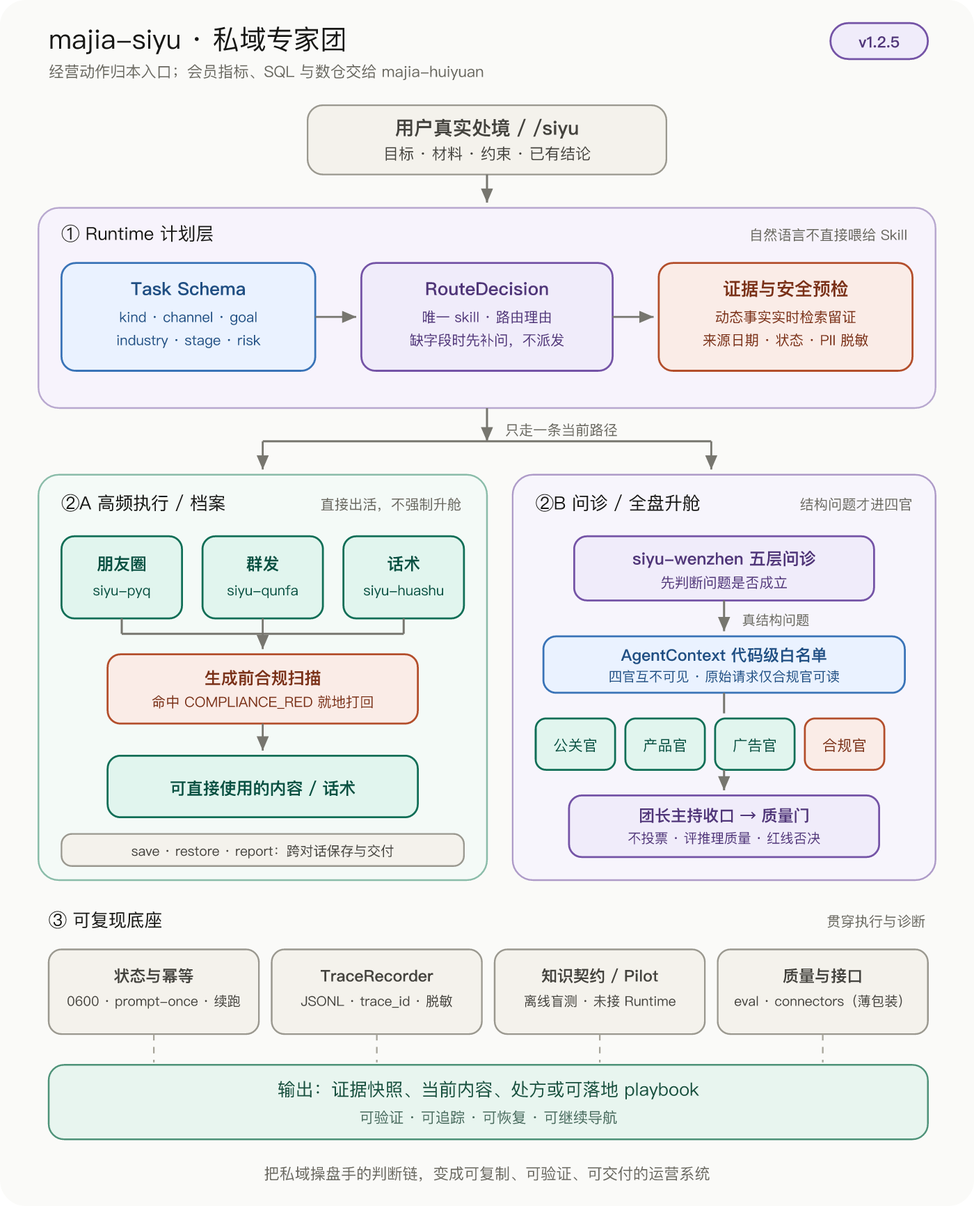
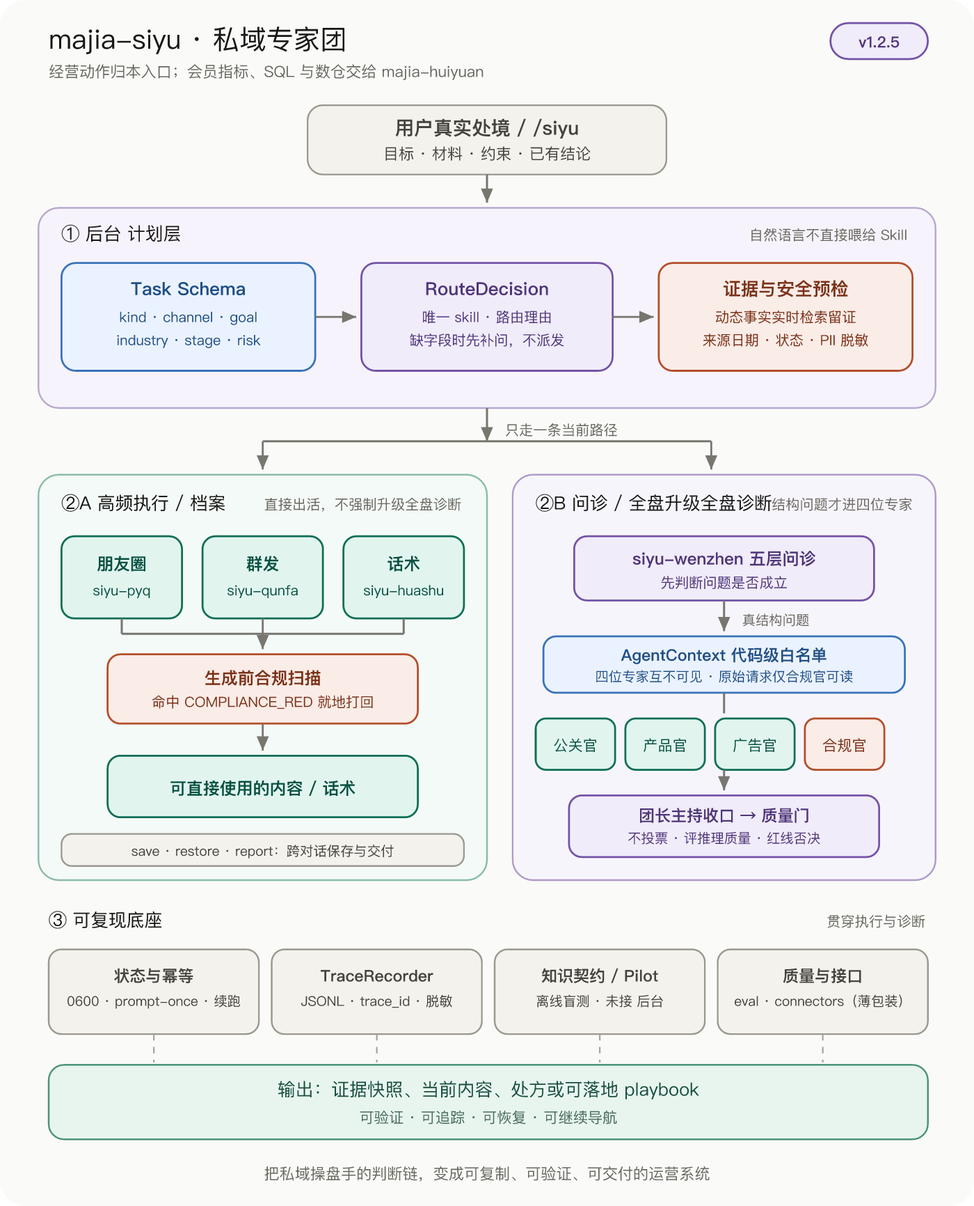
docs: plain-language entry copy for README and skills
Replace 升舱/四官/团长/Runtime/playbook in user-facing entry surfaces
with plain speech. majia-ota plain-language hard hits on the repo: 0.

diff --git a/README.md b/README.md
@@ -9,17 +9,17 @@
 
 > **私域专家团 · 马甲实战版**
 >
-> 中文私域经营工具箱。日常文案直接出活，结构问题再升舱诊断。你只需记住一个入口：`/siyu`。
+> 中文私域经营工具箱。日常文案直接出活，结构问题再升级做全套诊断。你只需记住一个入口：`/siyu`。
 
 <p align="center">
   <img src="https://raw.githubusercontent.com/maojiebc/majia-siyu-team/main/assets/icon.png" alt="私域专家团图标" width="120">
 </p>
 
 <p align="center">
-  <img src="https://raw.githubusercontent.com/maojiebc/majia-siyu-team/main/docs/framework.png" width="520" alt="majia-siyu v1.2.5 框架全局：统一入口先选当前一步；动态事实先检索留证；结构问题才升舱四官；知识 Pilot 只做离线验证">
+  <img src="https://raw.githubusercontent.com/maojiebc/majia-siyu-team/main/docs/framework.png" width="520" alt="majia-siyu v1.2.5 框架全局：统一入口先选当前一步；动态事实先检索留证；结构问题才升级全盘诊断；知识试验只做离线验证">
 </p>
 
-> **一张图看懂**：说真实处境 → `/siyu` 只选当前最该做的一步 → 高频任务直接写朋友圈 / 群发 / 话术（边写边合规）→ 真结构问题才升舱四官评审 → 结论可存档、可续聊、可出报告。经营动作归本仓；会员指标 / SQL / 数仓请用 [majia-huiyuan](https://github.com/maojiebc/majia-huiyuan)。
+> **一张图看懂**：说真实处境 → `/siyu` 只选当前最该做的一步 → 高频任务直接写朋友圈 / 群发 / 话术（边写边合规）→ 真结构问题才升级全盘诊断评审 → 结论可存档、可续聊、可出报告。经营动作归本仓；会员指标 / SQL / 数仓请用 [majia-huiyuan](https://github.com/maojiebc/majia-huiyuan)。
 
 ---
 
@@ -51,7 +51,7 @@
 - **一个入口**：不知道下一步就回 `/siyu`，不用背 17 个 skill 名  
 - **边写边合规**：企微封号红线 / 广告法绝对化 / 诱导分享，生成前就拦  
 - **动态事实硬门**：厂商、产品、报价、政策先实时检索留证，证据不足不推荐  
-- **结构问题才升舱**：四官独立评审、合规官红线一票否决，不把小问题做成大咨询  
+- **结构问题才升级全盘诊断**：四位专家分头看、合规一票否决，不把小问题做成大咨询  
 - **结论可接力**：本地客户档案存 / 续 / 出报告，下次不用重讲一遍  
 
 > 本仓开源的是框架、方法论与可安装 Skill；真实客户操盘 SOP 属作者私有，不在公开库。
@@ -63,9 +63,9 @@
 | 朋友圈写到枯竭，每天从零想素材 | 按配比排好的整周朋友圈（时段、标签、合规扫描） |
 | 群发没人打开，活动通知越发越沉 | 栏目化群发脚本、首句 A/B、承接动作，并判断该救文案还是救机制 |
 | 新客加进来不知道第一句说什么 | 分场景欢迎语、破冰流程、高频答疑话术 |
-| 有具体私域问题，但说不清卡在哪 | 五层问诊：先判断问题是否成立，再给处方或升舱 |
+| 有具体私域问题，但说不清卡在哪 | 五层问诊：先判断问题是否成立，再给处方或升级全盘诊断 |
 | 要选厂商、比竞品、核当前报价 | 带链接、日期与核验状态的证据快照 |
-| 整盘私域不知道怎么搭 | 老板版讲人话向导，或四官评审后的可执行方案 |
+| 整盘私域不知道怎么搭 | 老板版讲人话向导，或四位专家分头评审后的可执行方案 |
 | 上次结论散在聊天里，下次又要重讲 | 本地客户档案 + 跨对话接续 + 合规扫描后的交付报告 |
 | 想把一次真实踩坑贡献给同行 | 结构化案例卡、授权范围选择、人工审核（不上传完整聊天） |
 
@@ -77,7 +77,7 @@
 | 合规 | 发完再审，或不管 | **写的时候就扫**，红线就地打回 |
 | 行业方法 | 通用模板 | 餐饮 3322 配比、造 IP、偷着打折等内置打法 |
 | 外部事实 | 模型记忆瞎填 | 厂商 / 报价 / 政策必须**本次检索留证** |
-| 结构问题 | 继续堆文案 | 先问诊消解；真结构问题才升舱四官 |
+| 结构问题 | 继续堆文案 | 先问诊消解；真结构问题才升级全盘诊断 |
 | 跨对话 | 聊完就散 | 本地存档 / 续聊 / 出报告 |
 
 护城河口子也留好了：真实卖点、优惠、本品 SOP 由你注入私有层，输出从「行业通用」变成「懂本品、能转化」。
@@ -112,7 +112,7 @@
 
 | 能力 | 什么时候用 | 产出 |
 |---|---|---|
-| `siyu-onboard` | 整盘怎么搭、战略级私域评审 | 四官独立评审后的可执行方案 |
+| `siyu-onboard` | 整盘怎么搭、战略级私域评审 | 四位专家独立评审后的可执行方案 |
 | 方法库（随诊断调用） | IP / 促活 / 漏斗 / 危机 / 合规深挖 | `trust-asset` · `content-as-product` · `reactivation` · `ops-as-ad-funnel` · `conversion-caliber` · `crisis-response` · `wechat-compliance-redlines` |
 
 ### 5. 客户档案
@@ -184,7 +184,7 @@ flowchart LR
     B --> C["只选当前一步"]
     C --> D["执行：直接出活"]
     C --> E["问诊：先消解问题"]
-    E --> F["真结构问题才升舱四官"]
+    E --> F["真结构问题才升级全盘诊断"]
     D --> G["存档 / 续聊 / 重新导航"]
     F --> G
 ```
@@ -194,7 +194,7 @@ flowchart LR
 1. **证据层** —— 厂商、产品、报价、案例、政策先实时检索；候选名单也必须来自本次检索，证据不足不推荐  
 2. **计划层** —— 先把自然语言收成结构化任务，信息不够只问最关键的一个问题  
 3. **执行层** —— 朋友圈 / 群发 / 话术高频直出，各自内置合规扫描  
-4. **诊断层** —— 结构问题才进四官；四官互不可见，团长只评推理质量，合规官可一票否决  
+4. **诊断层** —— 结构问题才进全盘诊断；四位专家彼此看不见对方意见，总协调只评推理质量，合规可一票否决  
 5. **底座** —— 本地状态、脱敏追踪、分层知识契约、连接器预留（线上提交 / 检索尚未默认打开）
 
 技术细节：[`docs/runtime-v0.4.md`](docs/runtime-v0.4.md) · [`docs/knowledge-runtime.md`](docs/knowledge-runtime.md) · [`docs/framework.svg`](docs/framework.svg) · [`docs/标杆移植说明.md`](docs/标杆移植说明.md)
@@ -208,7 +208,7 @@ flowchart LR
 - [贡献与授权说明](docs/community-knowledge/contributor-guide.md)
 - [Pilot 协议与结果状态](docs/pilot/README.md)
 
-飞书只负责采集和人工审核，不是 Runtime 真源。本版不启用自动批准、正式知识检索或 Runtime 注入。
+飞书只负责采集和人工审核，不是后台自动系统的真源。本版不启用自动批准、正式知识检索，也不往后台自动系统里灌。
 
 ## 方法论引擎：三句话
 
@@ -231,7 +231,7 @@ PYTHONPATH=src python3 -m siyu_team.cli "群发三轮没人打开，问题出在
 ## 📋 版本记录
 
 - **v1.2.5** — 与 1.2.4 相同的餐饮零售用增方法映射；SkillHub 渠道对齐（商店 1.2.4 槽位异常，内容不变）。  
-- **v1.2.4** — 公开「用增方法映射·餐饮零售」：16 条增长 Know-how、指标字典、九项体检；方法可挂问诊/漏斗/促活，仍不自动注入 Runtime。  
+- **v1.2.4** — 公开「用增方法映射·餐饮零售」：16 条增长 Know-how、指标字典、九项体检；方法可挂问诊/漏斗/促活，仍不自动灌进后台。  
 - **v1.2.3** — 修复 SkillHub 详情页标题：发布临时包对齐 name=slug，主标题显示「私域专家团 · 马甲实战版」。功能不变。  
 - **v1.2.2** — 公开首页全面重梳：角色导航、完整能力地图、安装分渠道、ClawHub 包页与中英文 README 对齐；功能与 API 不变。  
 - **v1.2.1** — 离线知识价值盲测、30 个 Golden Tasks、审核吞吐报表；同行共建为邀请制验证。  

diff --git a/README.en.md b/README.en.md
@@ -16,7 +16,7 @@
 </p>
 
 <p align="center">
-  <img src="https://raw.githubusercontent.com/maojiebc/majia-siyu-team/main/docs/framework.png" width="520" alt="majia-siyu v1.2.5 architecture: one entry picks the current step; external facts require live evidence; structural issues escalate to four officers; knowledge pilot stays offline">
+  <img src="https://raw.githubusercontent.com/maojiebc/majia-siyu-team/main/docs/framework.png" width="520" alt="majia-siyu v1.2.5 architecture: one entry picks the current step; external facts require live evidence; structural issues escalate to a full four-expert review; knowledge pilot stays offline">
 </p>
 
 > **In one glance**: describe a real situation → `/siyu` picks only the current step → high-frequency work (Moments / group broadcast / welcome scripts) ships with write-time compliance → true structural issues escalate to four isolated officers → results can be saved, resumed, and reported. Operating actions live here; membership metrics / SQL / warehouses belong in [majia-huiyuan](https://github.com/maojiebc/majia-huiyuan).
@@ -50,7 +50,7 @@ Generic copy tools cover most of bucket 1. This toolbox finishes the last 20% an
 - **One entry** — remember `/siyu`, not 17 skill names
 - **Write-time compliance** — blocks WeCom-ban triggers, absolute ad-law claims, share-bait before output ships
 - **External-fact gate** — vendors, products, pricing, and policy require live research with dated sources
-- **Escalate only when structural** — four officers review in isolation; compliance has veto power
+- **Escalate only when structural** — four experts review in isolation; compliance has veto power
 - **Continuity** — local client archives for save / resume / report
 
 The public repo ships framework, methodology, and installable Skills. Real client operating SOPs stay private.
@@ -139,7 +139,7 @@ flowchart LR
 4. **Diagnosis** — four isolated officers + host quality gate + compliance veto  
 5. **Foundation** — local state, redacted traces, layered knowledge contract, connector stubs (online submit/retrieve not enabled by default)
 
-Runtime notes: [`docs/runtime-v0.4.md`](docs/runtime-v0.4.md) · knowledge contract: [`docs/knowledge-runtime.md`](docs/knowledge-runtime.md).
+runtime backend notes: [`docs/runtime-v0.4.md`](docs/runtime-v0.4.md) · knowledge contract: [`docs/knowledge-runtime.md`](docs/knowledge-runtime.md).
 
 ## Community knowledge pilot (invitation only)
 
@@ -160,7 +160,7 @@ Feishu is intake + human review only — not a runtime source. No auto-approval,
 ## Version history
 
 - **v1.2.5** — Same growth know-how map as 1.2.4; SkillHub channel synced (store 1.2.4 slot anomaly, content unchanged).  
-- **v1.2.4** — Public catering/retail growth know-how map (16 statements, metric dictionary, 9-point checkup); skills can cite it; still no Runtime auto-inject.  
+- **v1.2.4** — Public catering/retail growth know-how map (16 statements, metric dictionary, 9-point checkup); skills can cite it; still no runtime backend auto-inject.  
 - **v1.2.3** — Fix SkillHub detail title: temp package aligns name=slug so the page title shows the Chinese brand name. No API change.  
 - **v1.2.2** — Public page refresh: role navigation, full capability map, channel-split install, CN/EN + ClawHub package page alignment. No API/behavior change.  
 - **v1.2.1** — Offline knowledge pilot, 30 Golden Tasks, editorial throughput report.  

diff --git a/docs/新手入门.md b/docs/新手入门.md
@@ -16,10 +16,10 @@
 
 1. 说出现状、目标或材料，信息不完整也可以。
 2. 系统先把请求整理成任务类型、渠道、目标和风险，再由 `/siyu` 选择当前最值得处理的一步。
-3. 执行能力直接产出文案、话术、诊断或 playbook。
+3. 执行能力直接产出文案、话术、诊断或现成做法清单。
 4. 有结论就保存客户档案；要继续就重新导航。
 
-日常动作优先走执行能力。只有具体问题活过问诊漏斗、且涉及全盘结构，才升舱四官评审。
+日常动作优先走执行能力。只有具体问题活过问诊漏斗、且涉及全盘结构，才升级做全套诊断（四位专家分头看）。
 
 ## 三、完整能力目录
 
@@ -36,15 +36,15 @@
 | `/siyu-restore` | 接着上次、查看之前否决过什么 | 「上次聊到哪了」 | 档案中的下一步或 `/siyu` |
 | `/siyu-report` | 多次咨询后要交付给老板或客户 | 「把这个客户的记录整理成报告」 | 新一轮问诊或执行 |
 | `/siyu-update` | 更新本工具箱 | 「更新私域专家团」 | 更新后新建对话 |
-| `trust-asset-playbook` | 专家团内部评审信任与口碑资产 | 「检查这套活动如何积累信任」 | 由团长收口 |
-| `crisis-response-sop` | 专家团内部评审负面与危机响应 | 「给这次投诉设计响应 SOP」 | 由团长收口 |
-| `content-as-product` | 专家团内部评审内容产品性 | 「检查这批内容是否值得看和复用」 | 由团长收口 |
-| `reactivation-playbook` | 专家团内部评审沉默用户唤醒 | 「设计沉默 30 天用户的唤醒方案」 | 群发或话术执行 |
-| `ops-as-ad-funnel` | 专家团内部评审触达与转化漏斗 | 「拆这次活动的完整漏斗」 | 由团长收口 |
+| `trust-asset-做法清单` | 专家团内部评审信任与口碑资产 | 「检查这套活动如何积累信任」 | 由总协调收口 |
+| `crisis-response-sop` | 专家团内部评审负面与危机响应 | 「给这次投诉设计响应 SOP」 | 由总协调收口 |
+| `content-as-product` | 专家团内部评审内容产品性 | 「检查这批内容是否值得看和复用」 | 由总协调收口 |
+| `reactivation-做法清单` | 专家团内部评审沉默用户唤醒 | 「设计沉默 30 天用户的唤醒方案」 | 群发或话术执行 |
+| `ops-as-ad-funnel` | 专家团内部评审触达与转化漏斗 | 「拆这次活动的完整漏斗」 | 由总协调收口 |
 | `conversion-caliber` | 专家团内部校准指标口径 | 「把转化率的分子分母和时间窗写清」 | 质量门与数据埋点 |
 | `wechat-compliance-redlines` | 专家团内部审查封号、广告与授权风险 | 「检查这套裂变动作是否合规」 | 红线先整改，再收口 |
 
-普通用户不必记住后七个内部评审 skill。需要全盘诊断时调用 `siyu-onboard`，团长会组织它们。
+普通用户不必记住后七个内部评审 skill。需要全盘诊断时调用 `siyu-onboard`，总协调会把它们组织起来。
 
 ## 四、三个常见用法
 

diff --git a/plugins/siyu-core/skills/majia-siyu/README.md b/plugins/siyu-core/skills/majia-siyu/README.md
@@ -6,9 +6,9 @@
 
 > **私域专家团 · 马甲实战版**
 >
-> 中文私域经营工具箱。日常文案直接出活，结构问题再升舱诊断。入口只有一个：`/siyu`。
+> 中文私域经营工具箱。日常文案直接出活，结构问题再升级做全套诊断。入口只有一个：`/siyu`。
 
-私域经营动作全景图（统一入口 → 当前一步 → 执行 / 问诊 / 四官升舱；动态事实先检索留证；知识 Pilot 仅离线验证）：
+私域经营动作全景图（统一入口 → 当前一步 → 执行 / 问诊 / 升级全盘诊断；动态事实先检索留证；知识 Pilot 仅离线验证）：
 
 ![majia-siyu v1.2.5 框架全局](https://raw.githubusercontent.com/maojiebc/majia-siyu-team/main/docs/framework.png)
 
@@ -28,7 +28,7 @@
 
 - **高频执行（边写边合规）**：`siyu-pyq` 朋友圈 · `siyu-qunfa` 群发 · `siyu-huashu` 破冰话术  
 - **问诊与调研**：`siyu-wenzhen` 五层问诊 · `siyu-market-research` 厂商/竞品/报价实时留证  
-- **全盘诊断**：`siyu-onboard` 四官评审团 + 方法库（信任资产 / 促活 / 漏斗 / 危机 / 合规）  
+- **全盘诊断**：`siyu-onboard` 四位专家分头看 + 方法库（信任资产 / 促活 / 从进店到再买 / 危机 / 合规）  
 - **客户档案**：`siyu-save` / `siyu-restore` / `siyu-report`  
 - **升级**：`siyu-update`（只同步官方项目，不碰本地客户档案）  
 
@@ -63,7 +63,7 @@ skillhub install siyu
 ## 📋 版本记录
 
 - **v1.2.5** — 与 1.2.4 相同的用增方法映射；SkillHub 渠道对齐（1.2.4 槽位异常）。  
-- **v1.2.4** — 公开「用增方法映射·餐饮零售」16 条增长 Know-how；问诊/漏斗/促活可挂口径；不自动注入 Runtime。  
+- **v1.2.4** — 公开「用增方法映射·餐饮零售」16 条增长 Know-how；问诊/漏斗/促活可挂口径；不自动灌进后台。  
 - **v1.2.3** — 修复 SkillHub 详情页标题：发布临时包对齐 name=slug，主标题显示「私域专家团 · 马甲实战版」。功能不变。  
 - **v1.2.2** — 公开首页与包页全面重梳；H1 / displayName 固定为「私域专家团 · 马甲实战版」，避免被商店短名盖住标题。  
 - **v1.2.1** — 离线 Knowledge Pilot 盲测、30 Golden Tasks、审核吞吐报表。  

diff --git a/skillhub/majia-siyu/README.md b/skillhub/majia-siyu/README.md
@@ -6,9 +6,9 @@
 
 > **私域专家团 · 马甲实战版**
 >
-> 中文私域经营工具箱。日常文案直接出活，结构问题再升舱诊断。入口只有一个：`/siyu`。
+> 中文私域经营工具箱。日常文案直接出活，结构问题再升级做全套诊断。入口只有一个：`/siyu`。
 
-私域经营动作全景图（统一入口 → 当前一步 → 执行 / 问诊 / 四官升舱；动态事实先检索留证；知识 Pilot 仅离线验证）：
+私域经营动作全景图（统一入口 → 当前一步 → 执行 / 问诊 / 升级全盘诊断；动态事实先检索留证；知识 Pilot 仅离线验证）：
 
 ![majia-siyu v1.2.5 框架全局](https://raw.githubusercontent.com/maojiebc/majia-siyu-team/main/docs/framework.png)
 
@@ -28,7 +28,7 @@
 
 - **高频执行（边写边合规）**：`siyu-pyq` 朋友圈 · `siyu-qunfa` 群发 · `siyu-huashu` 破冰话术  
 - **问诊与调研**：`siyu-wenzhen` 五层问诊 · `siyu-market-research` 厂商/竞品/报价实时留证  
-- **全盘诊断**：`siyu-onboard` 四官评审团 + 方法库（信任资产 / 促活 / 漏斗 / 危机 / 合规）  
+- **全盘诊断**：`siyu-onboard` 四位专家分头看 + 方法库（信任资产 / 促活 / 从进店到再买 / 危机 / 合规）  
 - **客户档案**：`siyu-save` / `siyu-restore` / `siyu-report`  
 - **升级**：`siyu-update`（只同步官方项目，不碰本地客户档案）  
 
@@ -63,7 +63,7 @@ skillhub install siyu
 ## 📋 版本记录
 
 - **v1.2.5** — 与 1.2.4 相同的用增方法映射；SkillHub 渠道对齐（1.2.4 槽位异常）。  
-- **v1.2.4** — 公开「用增方法映射·餐饮零售」16 条增长 Know-how；问诊/漏斗/促活可挂口径；不自动注入 Runtime。  
+- **v1.2.4** — 公开「用增方法映射·餐饮零售」16 条增长 Know-how；问诊/漏斗/促活可挂口径；不自动灌进后台。  
 - **v1.2.3** — 修复 SkillHub 详情页标题：发布临时包对齐 name=slug，主标题显示「私域专家团 · 马甲实战版」。功能不变。  
 - **v1.2.2** — 公开首页与包页全面重梳；H1 / displayName 固定为「私域专家团 · 马甲实战版」，避免被商店短名盖住标题。  
 - **v1.2.1** — 离线 Knowledge Pilot 盲测、30 Golden Tasks、审核吞吐报表。  

diff --git a/skillhub/majia-siyu/SKILL.md b/skillhub/majia-siyu/SKILL.md
@@ -55,7 +55,7 @@ metadata:
 
 ## 模式 A：任务前路由
 
-源码可用时必须先调用 `SiyuRuntime.plan()`，只按 `decision.skill` 路由；需要补信息时只问 `required_fields` 第一项。下表是降级规则。
+源码可用时必须先调用 `Siyu后台自动系统.plan()`，只按 `decision.skill` 路由；需要补信息时只问 `required_fields` 第一项。下表是降级规则。
 
 ### 路由表
 
@@ -109,15 +109,15 @@ metadata:
 
 ## 语言（讲人话铁律）
 
-面向用户一律中文；不用 slug、session 等英文术语，**也不用中文黑话**——playbook / 团长 / 四官 / 升舱 等黑话一律翻成大白话（对照表见 [`references/整盘怎么搭-老板版.md`](references/整盘怎么搭-老板版.md)）。面对店老板尤其守这条：他要查字典的词，就是失败。
+面向用户一律中文；不用 slug、session 等英文术语，**也不用中文黑话**——做法清单 / 总协调 / 四位专家 / 升级全盘诊断 等黑话一律翻成大白话（对照表见 [`references/整盘怎么搭-老板版.md`](references/整盘怎么搭-老板版.md)）。面对店老板尤其守这条：他要查字典的词，就是失败。
 
 完整能力与安装说明见公开仓库：**https://github.com/maojiebc/majia-siyu-team**。
 
 ## 📋 版本记录
 
-- **v1.2.5** — SkillHub 对齐 1.2.4 用增映射；不接 Runtime。
-- **v1.2.3** — SkillHub 详情页展示名发布对齐。
-- **v1.2.1** — 离线 Pilot 盲测与审核报表；不接 Runtime。
+- **v1.2.5** — SkillHub 对齐用增映射；不接后台。
+- **v1.2.3** — SkillHub 展示名发布对齐。
+- **v1.2.1** — 离线 Pilot 与审核报表；不接后台。
 - **v1.2.0** — 知识契约与贡献安全层；仅人工审核。
 - **v1.1.0** — 新增动态外部事实三道硬门与 `siyu-market-research`：厂商、产品、报价和市场事实必须实时检索、逐项留证后才能进入推荐与专家分析。
 

diff --git a/plugins/siyu-core/skills/majia-siyu/SKILL.md b/plugins/siyu-core/skills/majia-siyu/SKILL.md
@@ -43,7 +43,7 @@ metadata:
 
 ## 模式 A：任务前路由
 
-源码可用时必须先调用 `SiyuRuntime.plan()`，只按 `decision.skill` 路由；需要补信息时只问 `required_fields` 第一项。下表是降级规则。
+源码可用时必须先调用 `Siyu后台自动系统.plan()`，只按 `decision.skill` 路由；需要补信息时只问 `required_fields` 第一项。下表是降级规则。
 
 ### 路由表
 
@@ -97,15 +97,15 @@ metadata:
 
 ## 语言（讲人话铁律）
 
-面向用户一律中文；不用 slug、session 等英文术语，**也不用中文黑话**——playbook / 团长 / 四官 / 升舱 等黑话一律翻成大白话（对照表见 [`references/整盘怎么搭-老板版.md`](references/整盘怎么搭-老板版.md)）。面对店老板尤其守这条：他要查字典的词，就是失败。
+面向用户一律中文；不用 slug、session 等英文术语，**也不用中文黑话**——做法清单 / 总协调 / 四位专家 / 升级全盘诊断 等黑话一律翻成大白话（对照表见 [`references/整盘怎么搭-老板版.md`](references/整盘怎么搭-老板版.md)）。面对店老板尤其守这条：他要查字典的词，就是失败。
 
 完整能力与安装说明见公开仓库：**https://github.com/maojiebc/majia-siyu-team**。
 
 ## 📋 版本记录
 
-- **v1.2.5** — SkillHub 对齐 1.2.4 用增映射；不接 Runtime。
-- **v1.2.3** — SkillHub 详情页展示名发布对齐。
-- **v1.2.1** — 离线 Pilot 盲测与审核报表；不接 Runtime。
+- **v1.2.5** — SkillHub 对齐用增映射；不接后台。
+- **v1.2.3** — SkillHub 展示名发布对齐。
+- **v1.2.1** — 离线 Pilot 与审核报表；不接后台。
 - **v1.2.0** — 知识契约与贡献安全层；仅人工审核。
 - **v1.1.0** — 新增动态外部事实三道硬门与 `siyu-market-research`：厂商、产品、报价和市场事实必须实时检索、逐项留证后才能进入推荐与专家分析。
 

diff --git a/plugins/siyu-execution/README.md b/plugins/siyu-execution/README.md
@@ -1,6 +1,6 @@
 # 私域执行层 · siyu-execution
 
-一线私域运营**直接干活**的单技能，跟诊断层（四官专家团）平级。用户可以直接召唤某一个 skill，不必走团长编排。
+一线私域运营**直接干活**的单技能，跟诊断层（四位专家团）平级。用户可以直接点某一个本事，不必走总协调那套安排。
 
 > 为什么单独一层：一线运营每天要写朋友圈、发群、给话术，他要的是「一个直接出活的单专家」，不是被拉去做战略评审。通用「生成」市面已到 80 分，这一层补的是最后 20 分——**行业灵魂 + 真实 SOP + 边写边合规 + 落到门店真数据**。
 
@@ -18,4 +18,4 @@
 - **三句话质检** —— 每个 skill 内置输出自检，用户无感却自带专家团 DNA
 
 ## 与诊断层（专家团）的关系
-执行层 = 入口（高频、干活）；专家团 = 升舱（低频、拍板）。只有"帮我看整盘私域怎么搭 / 这个活动战略对不对"才路由到团长走四官评审。海报需求不在这里自造，指向 `guizang-social-card-skill` / `baoyu-cover-image`。
+执行层 = 入口（高频、干活）；专家团 = 升级全盘诊断（低频、拍板）。只有「帮我看整盘私域怎么搭 / 这个活动战略对不对」才交给总协调，让四位专家分头看。海报需求不在这里自造，指向 `guizang-social-card-skill` / `baoyu-cover-image`。

diff --git a/plugins/siyu-core/skills/siyu-wenzhen/SKILL.md b/plugins/siyu-core/skills/siyu-wenzhen/SKILL.md
@@ -1,7 +1,7 @@
 ---
 name: siyu-wenzhen
 description: |
-  私域业务轻问诊：先用五层消解漏斗判断具体问题是否成立，再给答案或升舱全盘诊断。
+  私域业务轻问诊：先用五层消解漏斗判断具体问题是否成立，再给答案或升级全盘诊断全盘诊断。
   触发方式：/siyu-wenzhen、/问诊、「转化差怎么办」「群不活跃」「没人加微」「我有个私域问题」。
 metadata:
   version: "1.2.5"
@@ -65,13 +65,13 @@ metadata:
 - **资源约束型**：先问资金、时间、人力、数据中最关键的一项，再按约束给方案。
 - **专业边界型**：法务、医疗、财税等问题直接建议找对应专业人士。
 
-### 升舱出口
+### 升级全盘诊断的出口
 
 真问题成立且涉及全盘结构时，只说：
 
-> 这个问题成立，而且不是单点能解的。建议走一次全盘体检：`siyu-onboard`，四位官各自独立评审后由团长拍板。
+> 这个问题成立，而且不是单点能解的。建议走一次全盘体检：`siyu-onboard`，四位专家各自独立看完后由总协调拍板。
 
-不要为了显得专业而把单点问题都升舱。
+不要为了显得专业，把单点问题都升级成全盘诊断。
 
 ## Phase 5：回顾
 

diff --git a/skillhub/majia-siyu/modules/siyu-wenzhen/SKILL.md b/skillhub/majia-siyu/modules/siyu-wenzhen/SKILL.md
@@ -1,7 +1,7 @@
 ---
 name: siyu-wenzhen
 description: |
-  私域业务轻问诊：先用五层消解漏斗判断具体问题是否成立，再给答案或升舱全盘诊断。
+  私域业务轻问诊：先用五层消解漏斗判断具体问题是否成立，再给答案或升级全盘诊断全盘诊断。
   触发方式：/siyu-wenzhen、/问诊、「转化差怎么办」「群不活跃」「没人加微」「我有个私域问题」。
 metadata:
   version: "1.2.5"
@@ -65,13 +65,13 @@ metadata:
 - **资源约束型**：先问资金、时间、人力、数据中最关键的一项，再按约束给方案。
 - **专业边界型**：法务、医疗、财税等问题直接建议找对应专业人士。
 
-### 升舱出口
+### 升级全盘诊断的出口
 
 真问题成立且涉及全盘结构时，只说：
 
-> 这个问题成立，而且不是单点能解的。建议走一次全盘体检：`siyu-onboard`，四位官各自独立评审后由团长拍板。
+> 这个问题成立，而且不是单点能解的。建议走一次全盘体检：`siyu-onboard`，四位专家各自独立看完后由总协调拍板。
 
-不要为了显得专业而把单点问题都升舱。
+不要为了显得专业，把单点问题都升级成全盘诊断。
 
 ## Phase 5：回顾
 

diff --git a/plugins/siyu-core/skills/siyu-report/SKILL.md b/plugins/siyu-core/skills/siyu-report/SKILL.md
@@ -9,7 +9,7 @@ metadata:
 
 # siyu-report：客户咨询报告
 
-只从 `~/.siyu/clients/{客户}/` 的存档合并报告，不从当前对话凭空发挥。报告属于跨对话客户档案；`.siyu-team/` 仍只是一轮团长编排的运行时状态。
+只从 `~/.siyu/clients/{客户}/` 的存档合并报告，不从当前对话凭空发挥。报告属于跨对话客户档案；`.siyu-team/` 仍只是一轮总协调安排的运行中状态。
 
 ## 用户措辞
 

diff --git a/skillhub/majia-siyu/modules/siyu-report/SKILL.md b/skillhub/majia-siyu/modules/siyu-report/SKILL.md
@@ -9,7 +9,7 @@ metadata:
 
 # siyu-report：客户咨询报告
 
-只从 `~/.siyu/clients/{客户}/` 的存档合并报告，不从当前对话凭空发挥。报告属于跨对话客户档案；`.siyu-team/` 仍只是一轮团长编排的运行时状态。
+只从 `~/.siyu/clients/{客户}/` 的存档合并报告，不从当前对话凭空发挥。报告属于跨对话客户档案；`.siyu-team/` 仍只是一轮总协调安排的运行中状态。
 
 ## 用户措辞
 
